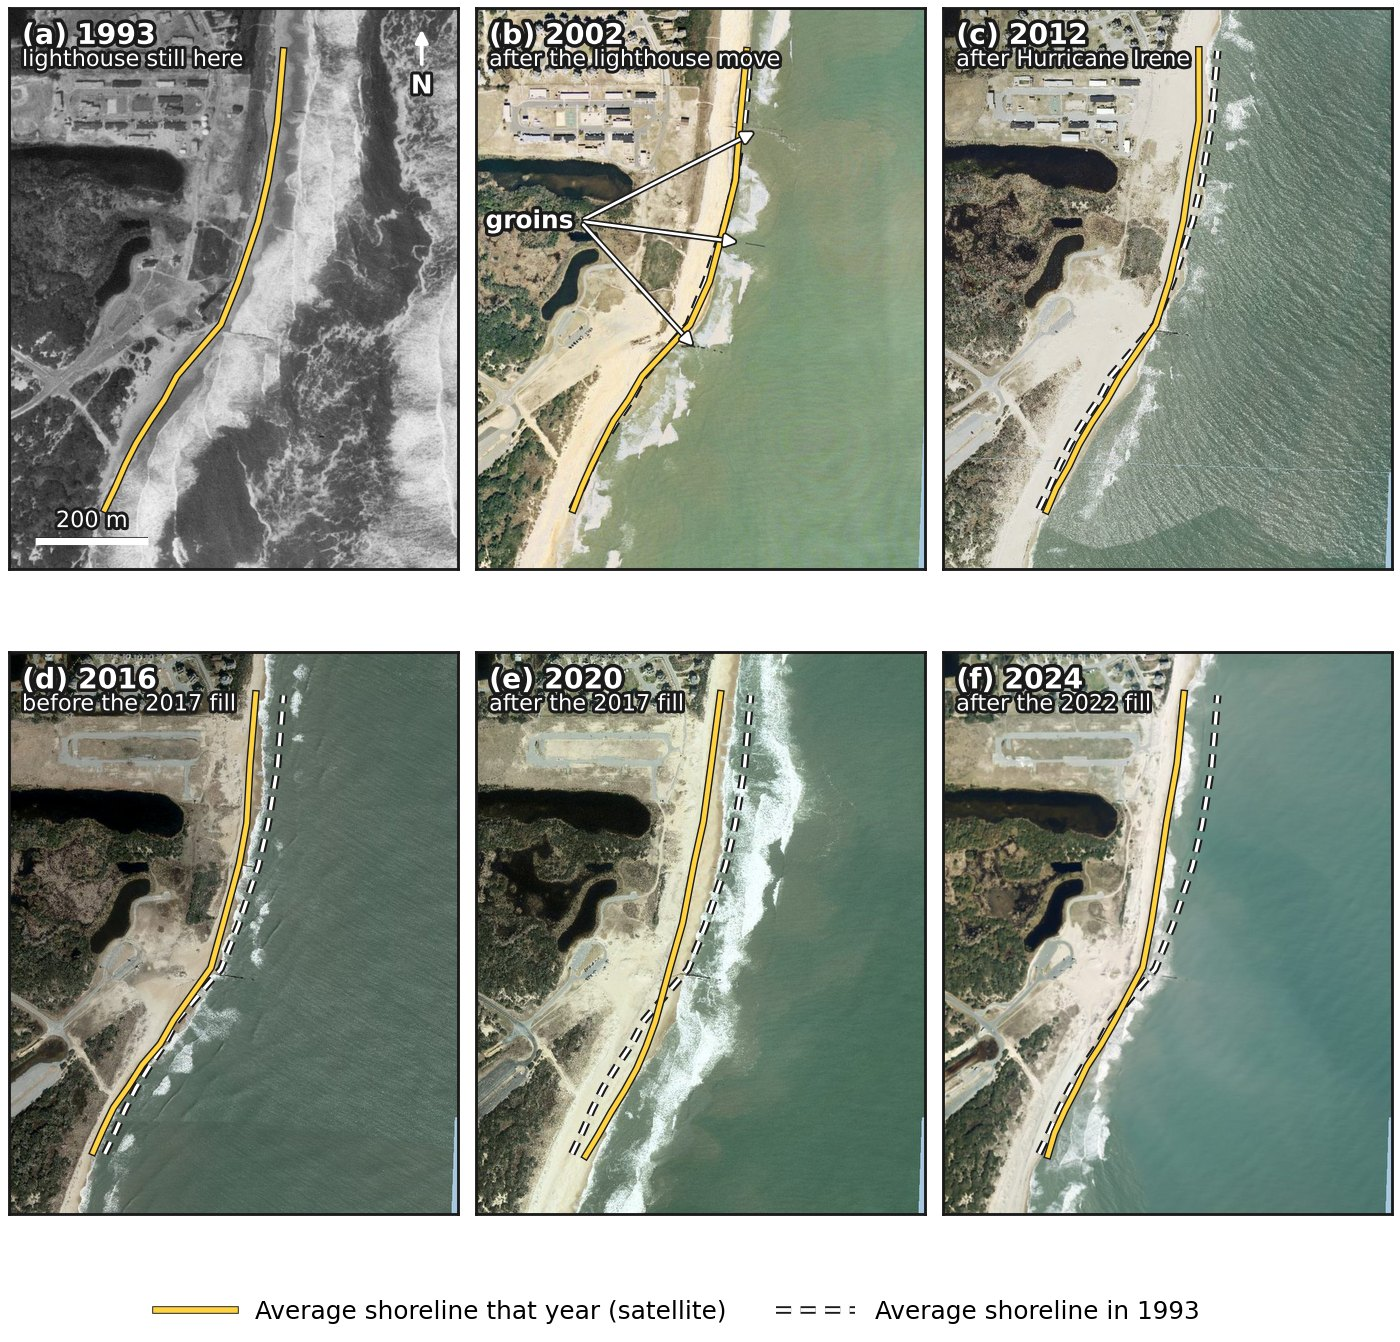
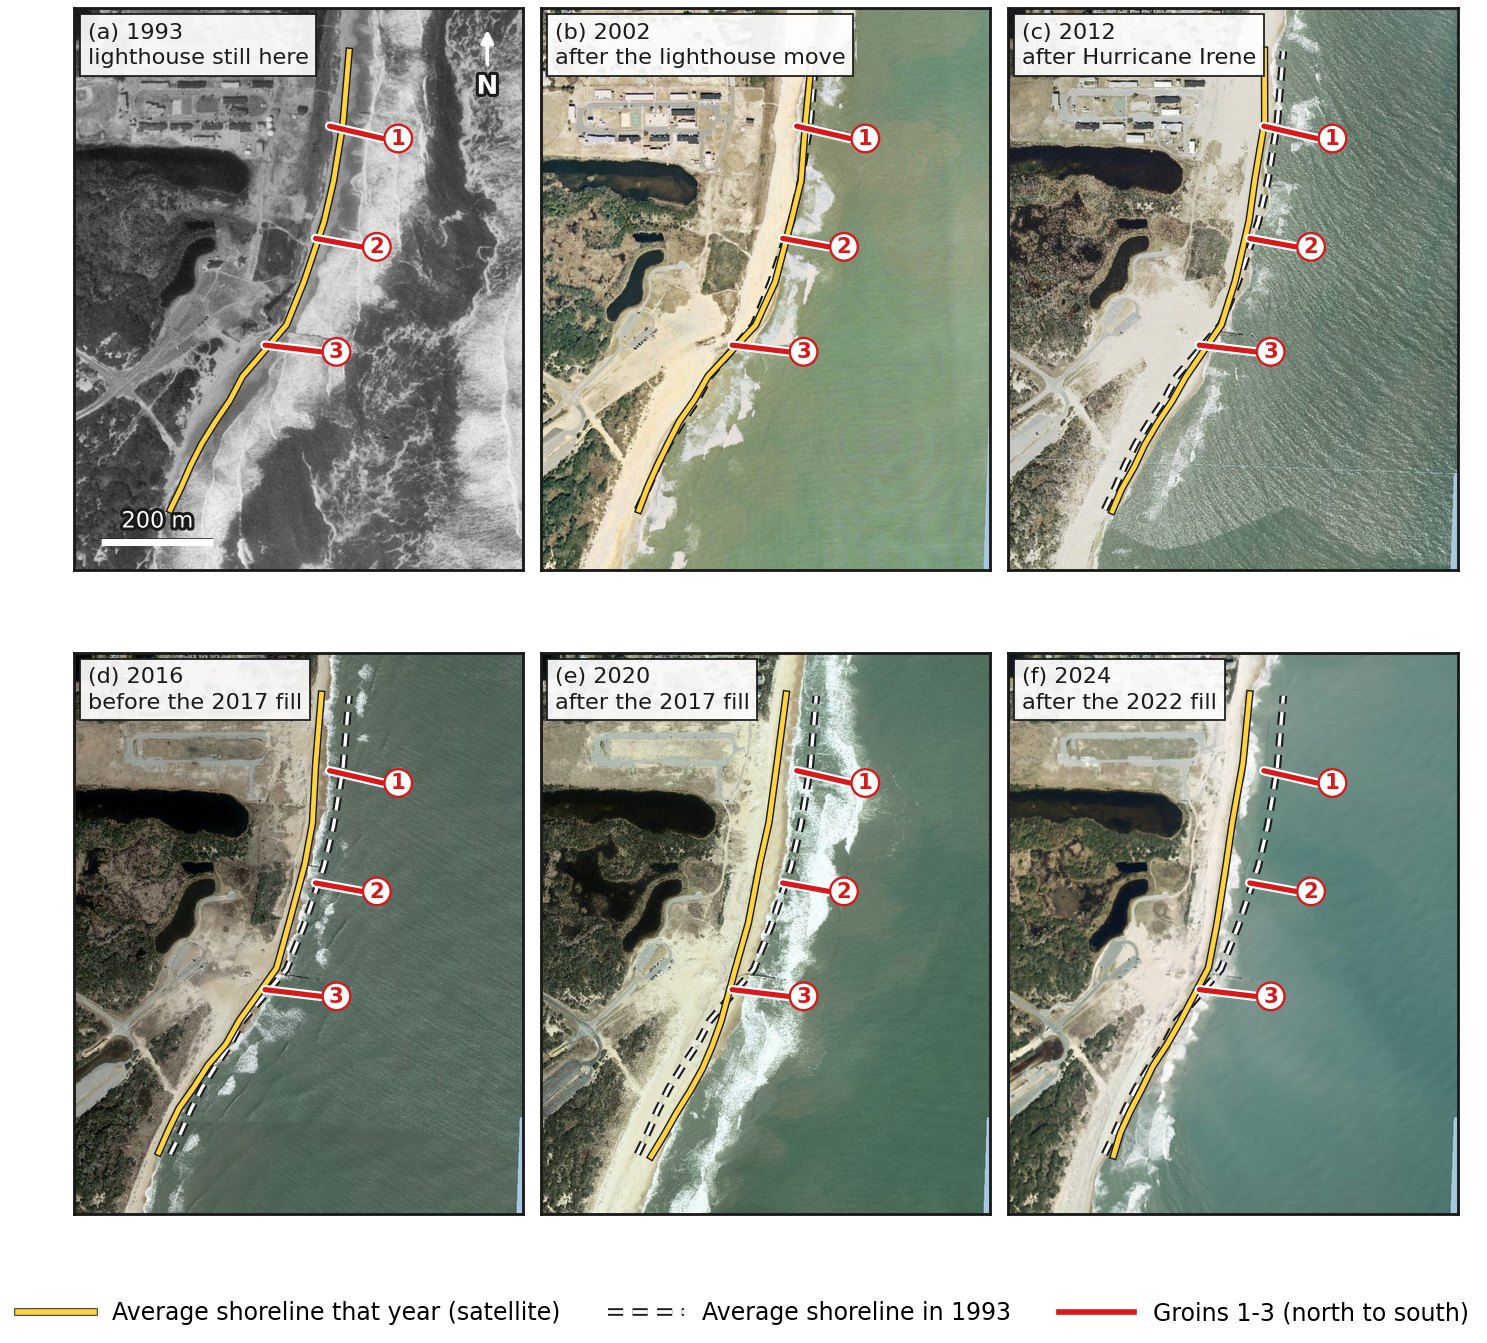
Mark the three groins in every panel of the groin photos

diff --git a/tools/hatteras_groin_photos.py b/tools/hatteras_groin_photos.py
@@ -41,8 +41,10 @@ YEARS = {1993: "DOQQ_NC_1993", 2002: "Orthoimagery_2002", 2012: "Orthoimagery_20
          2016: "Orthoimagery_2016_2019", 2020: "Orthoimagery_2020_2023", 2024: "Orthoimagery_20242027"}
 NOTES = {1993: "lighthouse still here", 2002: "after the lighthouse move", 2012: "after Hurricane Irene",
          2016: "before the 2017 fill", 2020: "after the 2017 fill", 2024: "after the 2022 fill"}
-# where the three groins meet the beach, read off the 2002 photo (lat, lon): for the labels in panel (b)
-GROINS = [(35.25777, -75.51890), (35.25599, -75.51923), (35.25431, -75.52011)]
+# the three groins, north to south, as (root, tip) in pixels of the 800 x 1000 frame, read off the 2002 photo where all
+# three are clearest; drawn in every panel so the shoreline can be read against them
+GROINS = [((455, 210), (550, 232)), ((430, 410), (512, 425)), ((340, 600), (440, 612))]
+GROIN = "#d7191c"
 REF = 1993
 LINE, REF_LINE = "#ffd23f", "#ffffff"
 MIN_OBS = 3
@@ -109,19 +111,17 @@ def main():
         for s in ax.spines.values():
             s.set_color("#1a1a1a")
             s.set_linewidth(1.2)
-        ax.text(0.03, 0.975, f"({'abcdef'[i]}) {y}", transform=ax.transAxes, ha="left", va="top", fontsize=12,
-                fontweight="bold", color="white", path_effects=[pe.withStroke(linewidth=3, foreground="#1a1a1a")])
-        ax.text(0.03, 0.925, NOTES[y], transform=ax.transAxes, ha="left", va="top", fontsize=9.5, color="white",
-                path_effects=[pe.withStroke(linewidth=2.6, foreground="#1a1a1a")])
-    # the groins, labelled once, in the clearest early photo
-    ax = axes.flat[1]
-    tip = [img.merc(la, lo) for la, lo in GROINS]
-    lx, ly = box[0] + 0.12 * (box[2] - box[0]), box[1] + 0.62 * (box[3] - box[1])
-    for gx, gy in tip:
-        ax.annotate("", xy=(gx, gy), xytext=(lx + 90 * k, ly), arrowprops=dict(arrowstyle="-|>", color="white", lw=1.2,
-                    shrinkA=2, shrinkB=1, path_effects=[pe.withStroke(linewidth=2.6, foreground="#1a1a1a")]))
-    ax.text(lx, ly, "groins", color="white", fontsize=10.5, fontweight="bold", ha="center", va="center",
-            path_effects=[pe.withStroke(linewidth=2.8, foreground="#1a1a1a")])
+        # the groins, numbered north to south, at the same place in every panel
+        for n, (root, tip) in enumerate(GROINS, 1):
+            (rx, ry), (tx, ty) = [(box[0] + px / PX[0] * (box[2] - box[0]), box[3] - py / PX[1] * (box[3] - box[1])) for px, py in (root, tip)]
+            ax.plot([rx, tx], [ry, ty], color=GROIN, lw=2.2, solid_capstyle="round",
+                    path_effects=[pe.withStroke(linewidth=4, foreground="white")])
+            ax.text(tx + 14 * k, ty, str(n), color=GROIN, fontsize=9, fontweight="bold", va="center",
+                    bbox=dict(boxstyle="circle,pad=0.18", fc="white", ec=GROIN, lw=1))
+        # panel label: letter and year, with what had just happened, in a white box
+        ax.text(0.03, 0.975, f"({'abcdef'[i]}) {y}\n" + NOTES[y], transform=ax.transAxes, ha="left", va="top",
+                fontsize=9.5, color="#1a1a1a", linespacing=1.35,
+                bbox=dict(boxstyle="square,pad=0.35", fc="white", ec="#1a1a1a", lw=0.8, alpha=0.92))
     # scale bar and north arrow in the first panel
     ax = axes.flat[0]
     x0, y0 = box[0] + 0.06 * (box[2] - box[0]), box[1] + 0.05 * (box[3] - box[1])
@@ -134,8 +134,10 @@ def main():
                 path_effects=[pe.withStroke(linewidth=2.6, foreground="#1a1a1a")])
     from matplotlib.lines import Line2D
     fig.legend(handles=[Line2D([], [], color=LINE, lw=2.4, path_effects=halo, label="Average shoreline that year (satellite)"),
-                        Line2D([], [], color=REF_LINE, lw=1.6, ls=(0, (4, 2.5)), path_effects=halo, label="Average shoreline in 1993")],
-               loc="lower center", ncol=2, frameon=False, fontsize=10.5, bbox_to_anchor=(0.5, 0.035), handlelength=3.2)
+                        Line2D([], [], color=REF_LINE, lw=1.6, ls=(0, (4, 2.5)), path_effects=halo, label="Average shoreline in 1993"),
+                        Line2D([], [], color=GROIN, lw=2.4, path_effects=[pe.withStroke(linewidth=4, foreground="white")],
+                               label="Groins 1-3 (north to south)")],
+               loc="lower center", ncol=3, frameon=False, fontsize=10, bbox_to_anchor=(0.5, 0.035), handlelength=3.2)
     fig.savefig(OUT, dpi=170, bbox_inches="tight", pad_inches=0.05, pil_kwargs={"quality": 86, "optimize": True})
     print(f"wrote {OUT.relative_to(SITE)}")
 

diff --git a/_pages/hatteras/management-groins.md b/_pages/hatteras/management-groins.md
@@ -16,7 +16,7 @@ The beach on the other side is cut off from that sand and often erodes faster.
 
 <figure class="hat-photo-wide">
 <img src="{{ '/assets/hatteras/img/groins_through_time.jpg' | relative_url }}" alt="Six aerial photos of the same stretch of beach at Buxton, from 1993 to 2024, each with that year's average satellite shoreline drawn in yellow and the 1993 shoreline dashed in white; three groins run out into the surf" loading="lazy">
-<figcaption class="hat-caption">The Buxton groins from 1993 to 2024, the same 800 m by 1,000 m of beach in each photo. The yellow line is the average of every satellite shoreline that calendar year, and the dashed white line is the 1993 average, for comparison. The three groins are the dark lines running into the surf, labelled in (b); the Cape Hatteras Lighthouse stood beside the southern one until 1999. A satellite shoreline is the water's edge at mean sea level, averaged over a whole year, so it can sit a little off the water's edge in a photo taken on one day. Photos: NC OneMap / NC Center for Geographic Information and Analysis (1993 black and white; 2012 Feb–Mar, 2016 Jan–Feb, 2020 Feb, 2024 Mar). Shorelines: CoastSat.</figcaption>
+<figcaption class="hat-caption">The Buxton groins from 1993 to 2024, the same 800 m by 1,000 m of beach in each photo. The yellow line is the average of every satellite shoreline that calendar year, and the dashed white line is the 1993 average, for comparison. The three groins, numbered 1 to 3 from north to south, are drawn in red where they appear in the 2002 photo, so the shoreline can be read against them in every year; the Cape Hatteras Lighthouse stood beside groin 3 until 1999. A satellite shoreline is the water's edge at mean sea level, averaged over a whole year, so it can sit a little off the water's edge in a photo taken on one day. Photos: NC OneMap / NC Center for Geographic Information and Analysis (1993 black and white; 2012 Feb–Mar, 2016 Jan–Feb, 2020 Feb, 2024 Mar). Shorelines: CoastSat.</figcaption>
 </figure>
 
 In 1969–70 the US Navy built three groins at Buxton, two north and one just south of where the Cape Hatteras Lighthouse then stood, to protect its Naval Facility; they also shielded the lighthouse.
